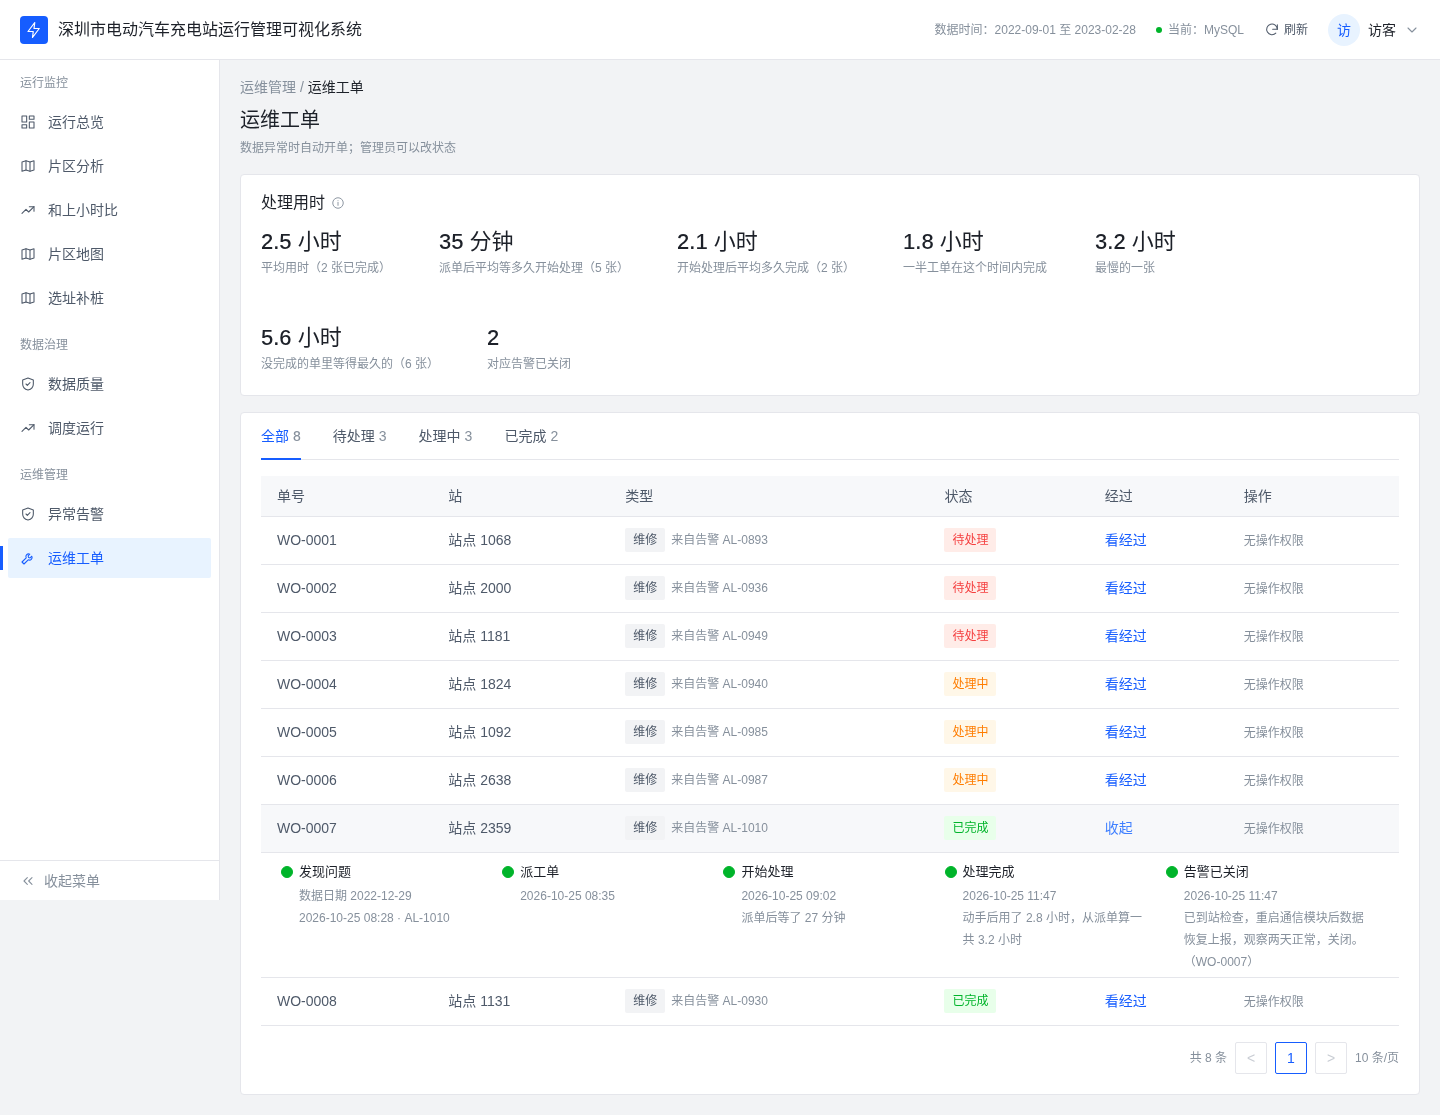
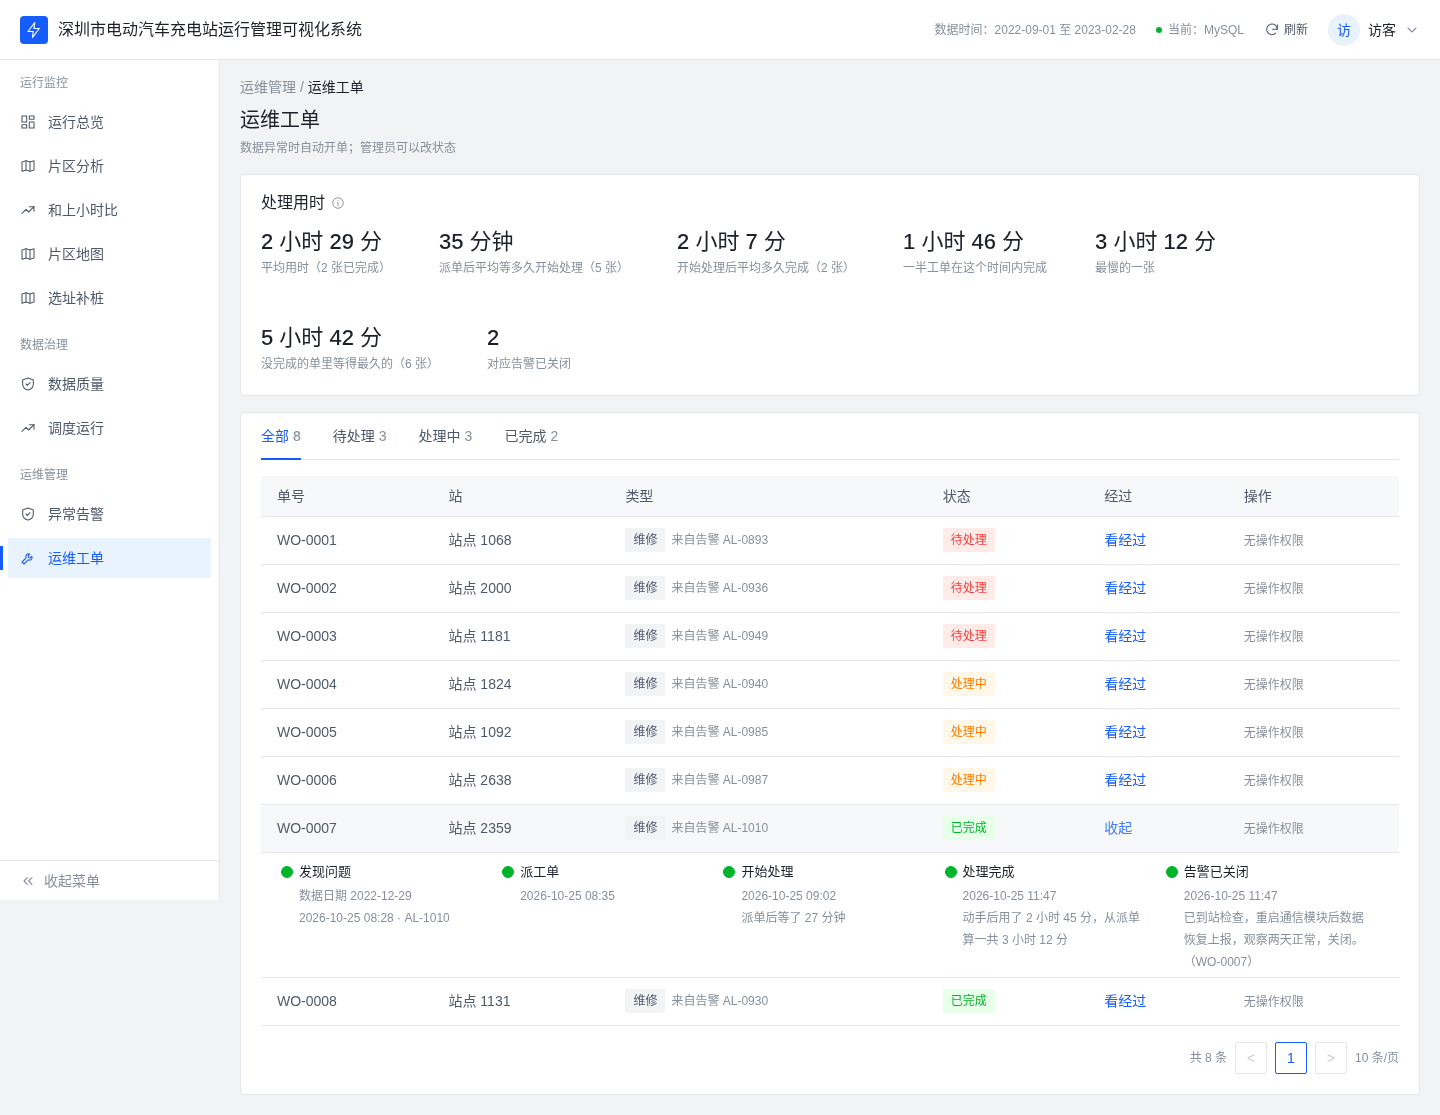
工单用时改成「X 小时 Y 分」，不再显示小数小时；重拍 tickets/ticket_timeline

diff --git a/web/index.html b/web/index.html
@@ -771,8 +771,11 @@
       if (ms == null || isNaN(ms)) return "—";
       const m = Math.max(0, Math.round(ms / 60000));
       if (m < 60) return `${m} 分钟`;
-      const h = m / 60;
-      return h < 48 ? `${+h.toFixed(1)} 小时` : `${+(h / 24).toFixed(1)} 天`;
+      // 用「X 小时 Y 分」，不用小数小时（2.75 小时容易被看成 2 小时 75 分）
+      const h = Math.floor(m / 60), mm = m % 60;
+      if (h < 48) return mm ? `${h} 小时 ${mm} 分` : `${h} 小时`;
+      const d = Math.floor(h / 24), hh = h % 24;
+      return hh ? `${d} 天 ${hh} 小时` : `${d} 天`;
     }
     function ticketFlow(t) {
       const a = t.alert_id != null ? alertList.find(x => x.alert_id === t.alert_id) : null;

diff --git a/tests/ui/test_pages.py b/tests/ui/test_pages.py
@@ -191,3 +191,19 @@ def test_runs_page_is_paged(browser):
     assert "not_recorded" not in text and "success" not in text
     assert not probs["js"], probs["js"]
     pg.close()
+
+
+def test_fmt_dur_hours_and_minutes(browser):
+    pg, probs = open_page(browser)
+    pg.goto(f"{UI_BASE}#/tickets")
+    pg.wait_for_load_state("networkidle")
+    f = lambda m: pg.evaluate(f"fmtDur({m} * 60000)")
+    assert f(27) == "27 分钟"
+    assert f(165) == "2 小时 45 分"
+    assert f(120) == "2 小时"
+    assert f(192) == "3 小时 12 分"
+    assert f(50 * 60 + 30) == "2 天 2 小时"
+    text = pg.inner_text("#view-tickets")
+    import re as _re
+    assert not _re.search(r"\d+\.\d+ 小时", text), "处理用时不该再出现小数小时"
+    pg.close()
